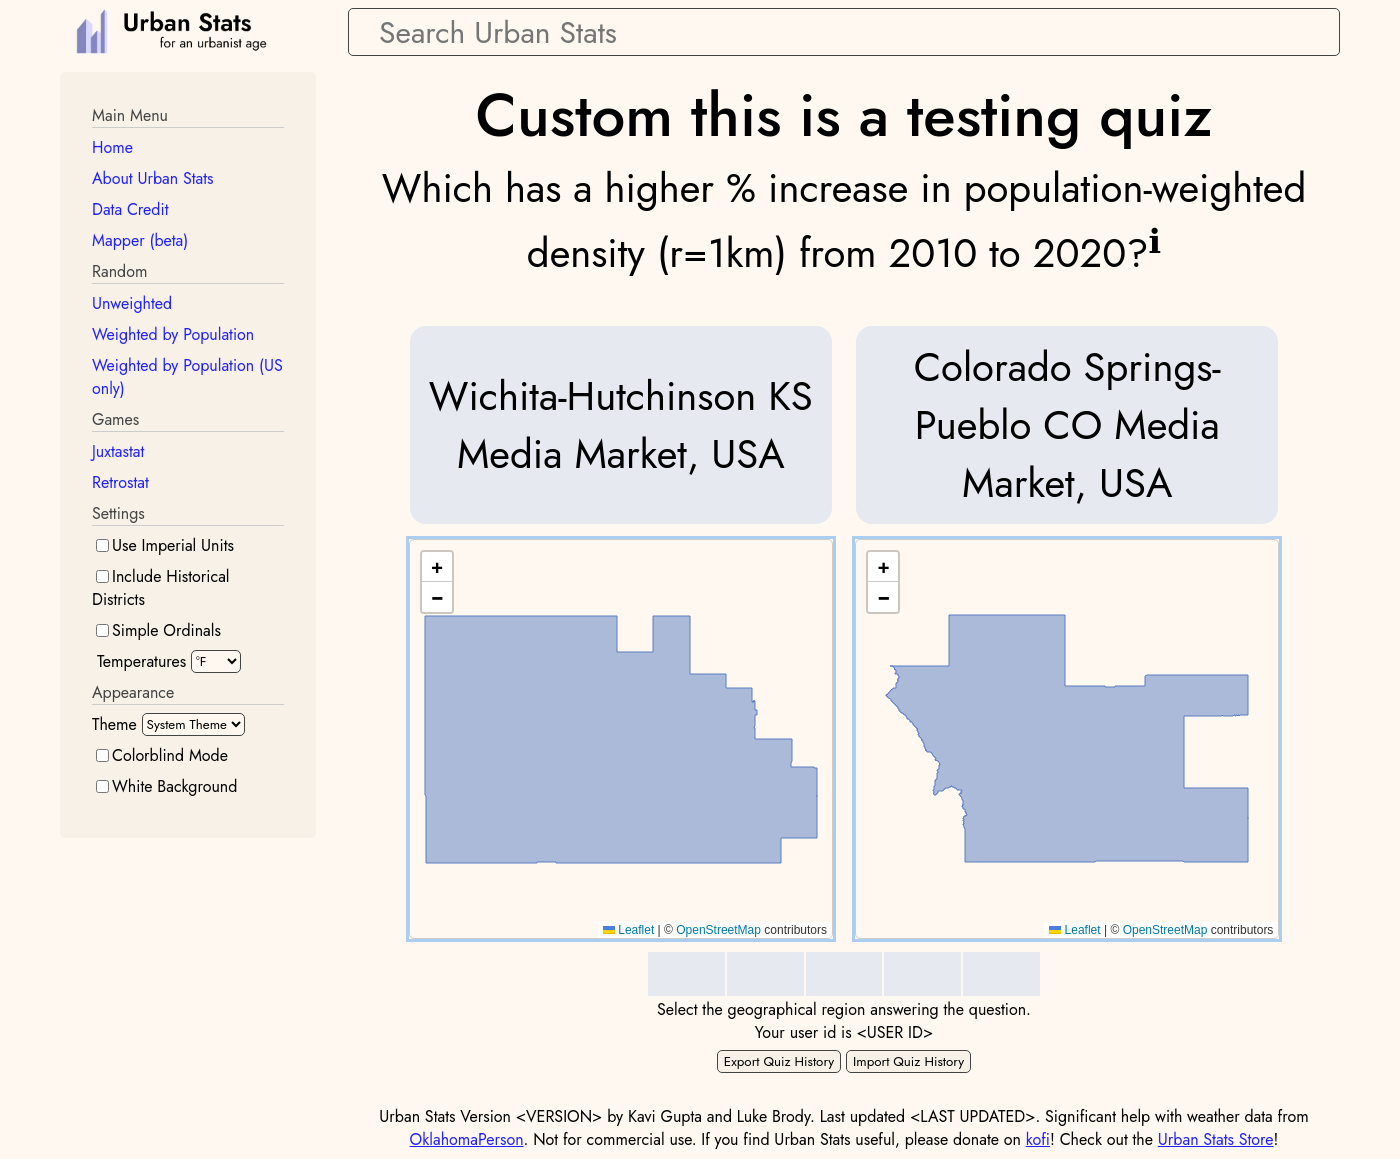
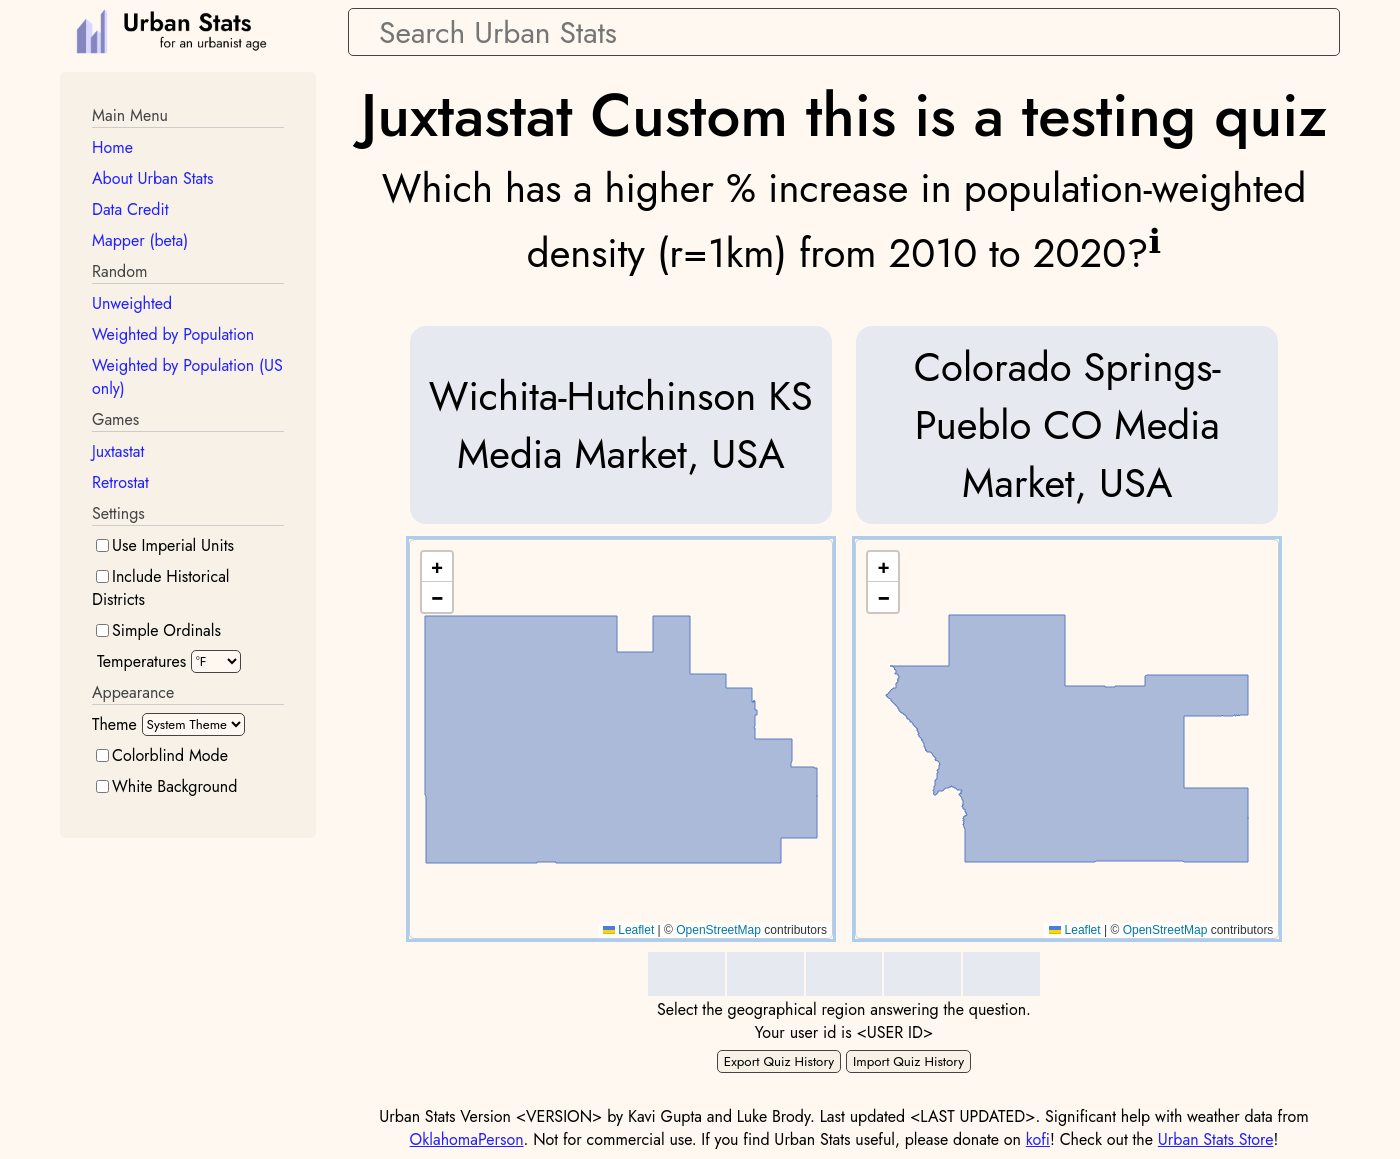
shorten link in share (#793)

Changed region(s): [[0.2457, 0.0621, 0.9521, 0.1242]]

diff --git a/react/src/quiz/quiz-result.tsx b/react/src/quiz/quiz-result.tsx
@@ -10,7 +10,7 @@ import { getVector, VectorSettingsDictionary } from '../page_template/settings-v
 import { allGroups, allYears, statParents, StatPath } from '../page_template/statistic-tree'
 
 import { renderTimeRemaining } from './dates'
-import { JuxtaQuestion, QuizDescriptor, QuizDescriptorWithStats, QuizHistory, QuizQuestion, RetroQuestion, aCorrect, QuizFriends, loadQuizFriends, nameOfQuizKind, QuizKind } from './quiz'
+import { JuxtaQuestion, QuizDescriptor, QuizDescriptorWithStats, QuizHistory, QuizQuestion, RetroQuestion, aCorrect, QuizFriends, loadQuizFriends, nameOfQuizKind, QuizKind, endpoint } from './quiz'
 import { ExportImport, Header, UserId } from './quiz-components'
 import { QuizFriendsPanel } from './quiz-friends'
 import { renderQuestion } from './quiz-question'
@@ -184,7 +184,7 @@ function ShareButton({ buttonRef, todayName, correctPattern, totalCorrect, quizK
             }}
             ref={buttonRef}
             onClick={async () => {
-                const [text, url] = summary(juxtaColors, todayName, correctPattern, totalCorrect, quizKind)
+                const [text, url] = await summary(juxtaColors, todayName, correctPattern, totalCorrect, quizKind)
 
                 async function copyToClipboard(): Promise<void> {
                     await navigator.clipboard.writeText(`${text}\n${url}`)
@@ -301,7 +301,7 @@ export function Summary(props: { totalCorrect: number, total: number, correctPat
     )
 }
 
-export function summary(juxtaColors: JuxtastatColors, todayName: string, correctPattern: CorrectPattern, totalCorrect: number, quizKind: QuizKind): [string, string] {
+export async function summary(juxtaColors: JuxtastatColors, todayName: string, correctPattern: CorrectPattern, totalCorrect: number, quizKind: QuizKind): Promise<[string, string]> {
     // wordle-style summary
     let text = `${nameOfQuizKind(quizKind)} ${todayName} ${totalCorrect}/${correctPattern.length}`
 
@@ -314,7 +314,20 @@ export function summary(juxtaColors: JuxtastatColors, todayName: string, correct
 
     // eslint-disable-next-line no-restricted-syntax -- Sharing
     const hash = window.location.hash
-    return [text, `https://juxtastat.org${hash === '' ? '' : `/${hash}`}`]
+    let url = `https://juxtastat.org${hash === '' ? '' : `/${hash}`}`
+    if (hash.length > 20) {
+        // current url is too long, shorten it. get the current url without the origin or slash
+        // eslint-disable-next-line no-restricted-syntax -- Sharing
+        const thisURL = window.location.href.substring(window.location.origin.length + 1)
+        const shortened = await fetch(`${endpoint}/shorten`, {
+            method: 'POST',
+            headers: { 'Content-Type': 'application/json' },
+            body: JSON.stringify({ full_text: thisURL }),
+        })
+        const json = await shortened.json() as { shortened: string }
+        url = `https://s.urbanstats.org/s?c=${json.shortened}`
+    }
+    return [text, url]
 }
 
 function QuizResultRow(props: QuizResultRowProps & { question: QuizQuestion }): ReactNode {

diff --git a/react/test/quiz_test.ts b/react/test/quiz_test.ts
@@ -6,7 +6,7 @@ import { gzipSync } from 'zlib'
 import { ClientFunction, Selector } from 'testcafe'
 
 import { clickButton, clickButtons, quizFixture, quizScreencap, tempfileName, withMockedClipboard } from './quiz_test_utils'
-import { target, mostRecentDownloadPath, safeReload, screencap } from './test_utils'
+import { target, mostRecentDownloadPath, safeReload, screencap, getLocation } from './test_utils'
 
 async function runQuery(query: string): Promise<string> {
     // dump given query to a string
@@ -774,4 +774,24 @@ test('custom-quiz', async (t) => {
     // refreshing brings us back to the same quiz
     await safeReload(t)
     await checkFirstQuestionPage()
+})
+
+test('custom-quiz-sharelink', async (t) => {
+    await clickButtons(t, ['a', 'b', 'a', 'b', 'a'])
+    const copies = await withMockedClipboard(t, async () => {
+        await t.click(Selector('button').withText('Copy'))
+    })
+    await t.expect(copies.length).eql(1)
+    const copy = copies[0]
+    // split by line
+    const lines = copy.split('\n')
+    await t.expect(lines.length).eql(5)
+    await t.expect(lines[0]).eql('Juxtastat Custom this is a testing quiz 2/5')
+    await t.expect(lines[1]).eql('')
+    await t.expect(lines[2]).eql('🟥🟩🟩🟥🟥')
+    await t.expect(lines[3]).eql('')
+    await t.expect(lines[4]).match(/^https:\/\/s\.urbanstats\.org\/s\?c=.*$/)
+    // navigate to the url, should bring us back to the same quiz
+    await t.navigateTo(lines[4])
+    await t.expect(getLocation()).eql(customQuizURL())
 })

diff --git a/react/src/quiz/quiz.ts b/react/src/quiz/quiz.ts
@@ -35,12 +35,11 @@ export function aCorrect(quiz: QuizQuestion): boolean {
 }
 
 export function nameOfQuizKind(quizKind: QuizKind): string {
-    return quizKind.replace(
-        /\w\S*/g,
-        function (txt) {
-            return txt.charAt(0).toUpperCase() + txt.substr(1).toLowerCase()
-        },
-    )
+    switch (quizKind) {
+        case 'juxtastat': return 'Juxtastat'
+        case 'retrostat': return 'Retrostat'
+        case 'custom': return 'Juxtastat Custom'
+    }
 }
 
 export function loadJuxta(quiz: JuxtaQuestionJSON): JuxtaQuestion {

diff --git a/react/src/page_template/template.tsx b/react/src/page_template/template.tsx
@@ -138,7 +138,7 @@ function TemplateFooter(): ReactNode {
 }
 
 function Version(): ReactNode {
-    return <span id="current-version">23.4.2</span>
+    return <span id="current-version">23.4.3</span>
 }
 
 function LastUpdated(): ReactNode {
